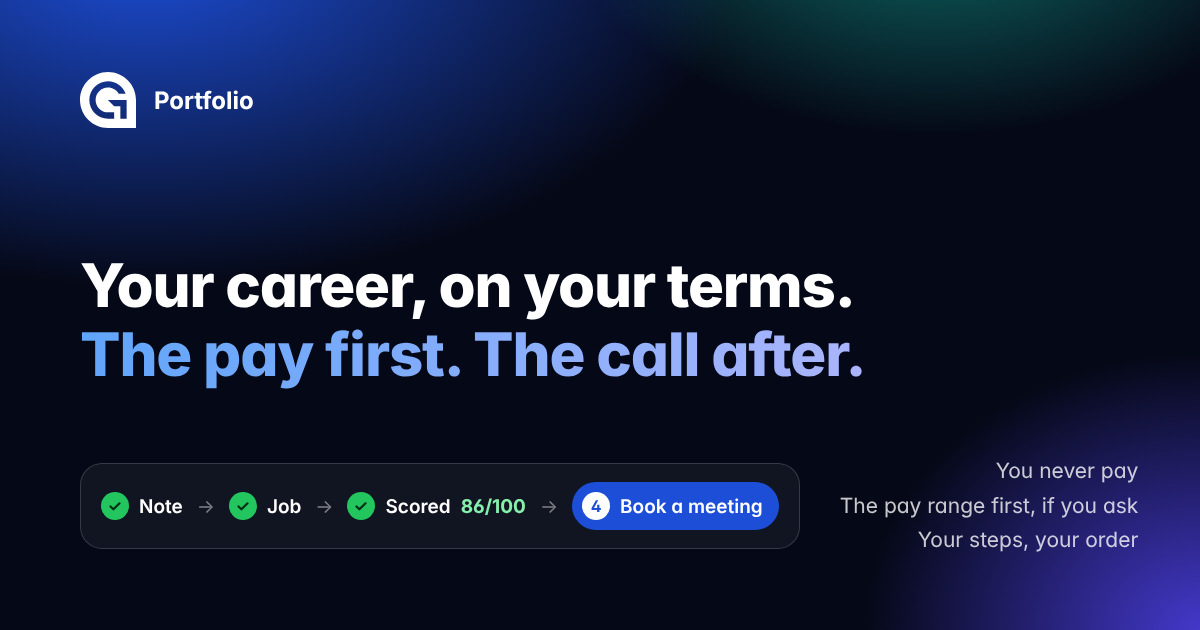
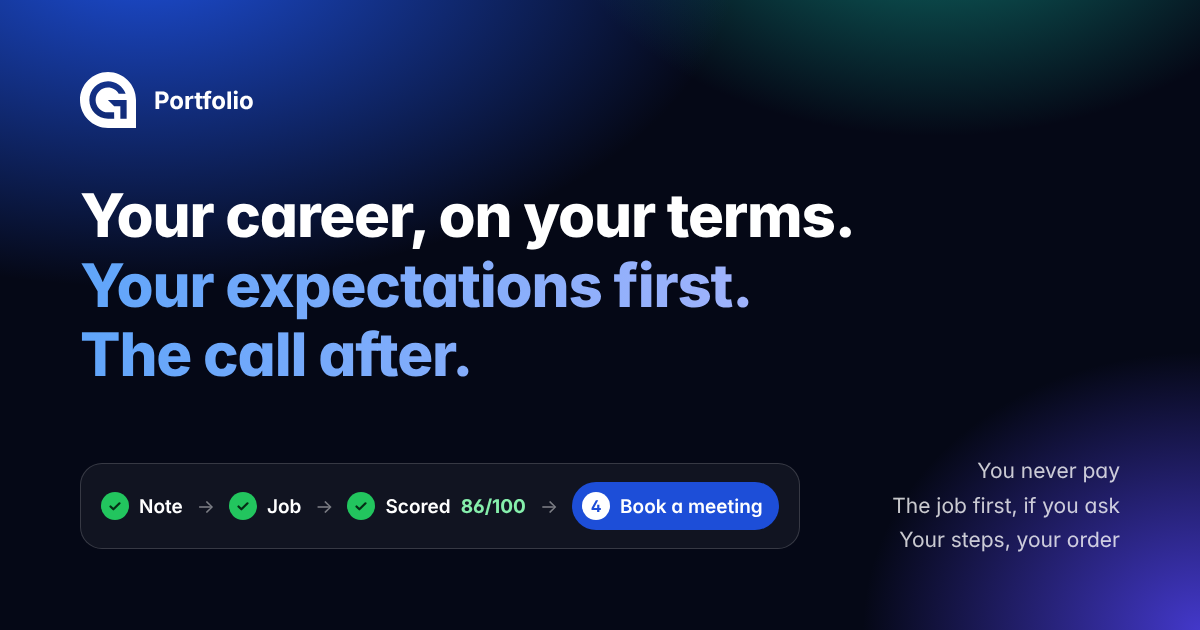
Lead with the candidate's expectations, not the pay
The landing read as money first: "The pay first. The call after." /
« La rémunération d'abord. L'appel ensuite. », and the promise « La
rémunération d'abord, si vous le demandez ».

- Headline: "Your career, on your terms. Your expectations first. The call
  after." / « Votre carrière, à vos conditions. Vos attentes d'abord.
  L'appel ensuite. » (also the link previews' og:title). Your
  expectations are the criteria the job is scored against, which the
  Backed-by comment now names (the job match step, scorePerfectJob).
- The promise: "The job first, if you ask" / « L'offre d'abord, si vous
  le demandez », with a briefcase instead of the banknotes; its text still
  says every job states its pay range and how a wide one is scored. The
  French title keeps « si vous le demandez » together (no-break spaces),
  so it breaks after the comma.
- The page's description: "ask for the job first, score it against your
  expectations" (no longer "the job and its pay first").
- The share images (og-image.png, og-image-fr.png) rendered again with the
  new headline and promise; the French side lines now fit one line each,
  so their narrower column is gone. Their alt text says the same.
- Tests (landing, language, shareImage), CLAUDE.md and the glossary of
  docs/I18N.md follow.

Checked: lint, typecheck, 855 unit tests, the landing, language and robots
e2e files (50 passed), and the pages and images looked at in both
[…]

Changed region(s): [[0.0617, 0.3016, 0.74, 0.6333], [0.6783, 0.7238, 0.9558, 0.8143], [0.74, 0.8444, 0.9558, 0.8746]]

diff --git a/client/src/routes/(site)/page.messages.ts b/client/src/routes/(site)/page.messages.ts
@@ -24,8 +24,8 @@ export const m = defineMessages({
 		 * meeting alone (DEFAULT_WORKFLOW_STEPS)
 		 */
 		description: {
-			en: 'Free for talent, always. Send recruiters your link: your page can ask for the job and its pay first, score it against what you want, and only then open your calendar.',
-			fr: "Gratuit pour les talents, toujours. Envoyez votre lien aux recruteurs : votre page peut demander d'abord l'offre et sa rémunération, la noter selon ce que vous voulez, et seulement ensuite ouvrir votre agenda."
+			en: 'Free for talent, always. Send recruiters your link: your page can ask for the job first, score it against your expectations, and only then open your calendar.',
+			fr: "Gratuit pour les talents, toujours. Envoyez votre lien aux recruteurs : votre page peut demander d'abord l'offre, la noter selon vos attentes, et seulement ensuite ouvrir votre agenda."
 		},
 		/**
 		 * The steps of a hiring journey the share image draws (render.mjs), the third with the score
@@ -38,8 +38,8 @@ export const m = defineMessages({
 		},
 		/** What the share image shows (client/scripts/og-image/render.mjs, its `landing` picture) */
 		imageAlt: {
-			en: 'Your career, on your terms. The pay first. The call after. The steps of a hiring journey: note, job, scored 86 out of 100, book a meeting. You never pay. The pay range first, if you ask. Your steps, your order.',
-			fr: "Votre carrière, à vos conditions. La rémunération d'abord. L'appel ensuite. Les étapes d'un parcours de recrutement : note, offre, notée 86 sur 100, rendez-vous. Vous ne payez jamais. La rémunération d'abord, si vous le demandez. Vos étapes, dans votre ordre."
+			en: 'Your career, on your terms. Your expectations first. The call after. The steps of a hiring journey: note, job, scored 86 out of 100, book a meeting. You never pay. The job first, if you ask. Your steps, your order.',
+			fr: "Votre carrière, à vos conditions. Vos attentes d'abord. L'appel ensuite. Les étapes d'un parcours de recrutement : note, offre, notée 86 sur 100, rendez-vous. Vous ne payez jamais. L'offre d'abord, si vous le demandez. Vos étapes, dans votre ordre."
 		}
 	},
 	hero: {
@@ -55,15 +55,17 @@ export const m = defineMessages({
 		/**
 		 * The coloured line, each sentence a `phrase` kept whole on one line, as the share image
 		 * keeps it (+page.svelte sizes the headline for the longest to fit its column, so a line
-		 * never holds « d'abord. » alone). Backed by: the gate journey
-		 * (journeyTemplate('gate'): a job step, then the job match, then the meeting), every job
-		 * description stating its pay range (validateJobPosting, `pay.min` and `pay.max`, of
-		 * common/models/jobPosting.ts) and the meeting locked until the steps before it succeed
-		 * (openStepOfType of server/services/workflows.ts). The lead says it takes asking for the job
+		 * never holds « d'abord. » alone). "Your expectations": what the owner asks for in a job,
+		 * their perfect job's criteria, not the pay alone. Backed by: the gate journey
+		 * (journeyTemplate('gate'): a job step, then the job match, then the meeting), the job match
+		 * step scoring the job against the owner's criteria (server/services/workflowSteps/jobMatch.ts,
+		 * scorePerfectJob of common/models/perfectJob.ts) and the meeting locked until the steps
+		 * before it succeed (openStepOfType of server/services/workflows.ts). The lead says it takes
+		 * asking for the job
 		 */
 		headlineAccent: {
-			en: '<phrase>The pay first.</phrase> <phrase>The call after.</phrase>',
-			fr: "<phrase>La rémunération d'abord.</phrase> <phrase>L'appel ensuite.</phrase>"
+			en: '<phrase>Your expectations first.</phrase> <phrase>The call after.</phrase>',
+			fr: "<phrase>Vos attentes d'abord.</phrase> <phrase>L'appel ensuite.</phrase>"
 		},
 		/**
 		 * Backed by: the admin's Get started tab, whose "Ask for the job first" saves the gate journey
@@ -213,14 +215,15 @@ export const m = defineMessages({
 		 * opened before the cap may state a wider range (requireOpenablePay of
 		 * server/services/jobPostings.ts refuses only a first opening); the job step's line in the
 		 * meeting invitation (`describe` of server/services/workflowSteps/job.ts, opportunityPath).
-		 * "If you ask": the default journey is the meeting alone (DEFAULT_WORKFLOW_STEPS). "The pay
-		 * range", in English: the share image draws this title under "You never pay", where "the pay
-		 * first" could read as "you pay first"
+		 * "If you ask": the default journey is the meeting alone (DEFAULT_WORKFLOW_STEPS). "The job",
+		 * not "the pay": the job comes first, its pay range with it, and the share image draws this
+		 * title under "You never pay", where "the pay first" could read as "you pay first"
 		 */
 		pay: {
 			title: {
-				en: 'The pay range first, if you ask',
-				fr: "La rémunération d'abord, si vous le demandez"
+				en: 'The job first, if you ask',
+				// No-break spaces: the balanced title breaks after the comma, never after « si »
+				fr: "L'offre d'abord, si\u00a0vous\u00a0le\u00a0demandez"
 			},
 			text: {
 				en: (ratio: number) =>

diff --git a/client/tests/landing.test.ts b/client/tests/landing.test.ts
@@ -130,7 +130,7 @@ test.describe('landing page, signed out', () => {
 		await expect(
 			page.getByRole('heading', {
 				level: 2,
-				name: 'Your career, on your terms. The pay first. The call after.'
+				name: 'Your career, on your terms. Your expectations first. The call after.'
 			})
 		).toBeVisible();
 		// The sections, in the order the page tells them
@@ -157,10 +157,10 @@ test.describe('landing page, signed out', () => {
 		// right above it
 		await expect(page.locator('meta[property="og:title"]')).toHaveAttribute(
 			'content',
-			'Your career, on your terms. The pay first. The call after.'
+			'Your career, on your terms. Your expectations first. The call after.'
 		);
 		await expect(page.getByRole('banner')).toContainText('The career page you keep');
-		await expect(page.getByRole('banner')).not.toContainText('The pay first');
+		await expect(page.getByRole('banner')).not.toContainText('Your expectations first');
 		await expect(page.getByRole('link', { name: 'See an example' })).toHaveAttribute(
 			'href',
 			'/louis.gentil/experiences'
@@ -180,11 +180,11 @@ test.describe('landing page, signed out', () => {
 		await expect(page).toHaveTitle('Your career, on your terms | Portfolio');
 		await expect(page.locator('meta[property="og:title"]')).toHaveAttribute(
 			'content',
-			'Your career, on your terms. The pay first. The call after.'
+			'Your career, on your terms. Your expectations first. The call after.'
 		);
 		await expect(page.locator('meta[property="og:image:alt"]')).toHaveAttribute(
 			'content',
-			'Your career, on your terms. The pay first. The call after. The steps of a hiring journey: note, job, scored 86 out of 100, book a meeting. You never pay. The pay range first, if you ask. Your steps, your order.'
+			'Your career, on your terms. Your expectations first. The call after. The steps of a hiring journey: note, job, scored 86 out of 100, book a meeting. You never pay. The job first, if you ask. Your steps, your order.'
 		);
 		await expect(page.locator('meta[name="description"]')).toHaveAttribute(
 			'content',
@@ -206,7 +206,7 @@ test.describe('landing page, signed out', () => {
 		// is the meeting alone): the page says the journey "can", and how
 		await expect(page.locator('meta[name="description"]')).toHaveAttribute(
 			'content',
-			/your page can ask for the job and its pay first, score it against what you want, and only then open your calendar\.$/
+			/your page can ask for the job first, score it against your expectations, and only then open your calendar\.$/
 		);
 		await expect(page.getByText('Ask for the job first, in one click:')).toBeVisible();
 		await expect(page.getByText('Your portfolio starts with the meeting alone.')).toBeVisible();
@@ -221,10 +221,10 @@ test.describe('landing page, signed out', () => {
 			page.getByRole('listitem').filter({ has: page.getByRole('heading', { name: title }) });
 		// Never an unconditional "recruiters show the pay first", and the range cap as scored (a
 		// posting opened before the cap may state a wider range)
-		await expect(promise('The pay range first, if you ask')).toContainText(
+		await expect(promise('The job first, if you ask')).toContainText(
 			'your page asks recruiters for the job before the meeting'
 		);
-		await expect(promise('The pay range first, if you ask')).toContainText(
+		await expect(promise('The job first, if you ask')).toContainText(
 			'it is scored as if its top were at most 1.5 times its bottom'
 		);
 		// The minimum is shown to recruiters: the promise says so

diff --git a/client/tests/language.test.ts b/client/tests/language.test.ts
@@ -27,7 +27,7 @@ test.describe('a visitor whose browser prefers French', () => {
 		await expect(
 			page.getByRole('heading', {
 				level: 2,
-				name: "Votre carrière, à vos conditions. La rémunération d'abord. L'appel ensuite."
+				name: "Votre carrière, à vos conditions. Vos attentes d'abord. L'appel ensuite."
 			})
 		).toBeVisible();
 		await expect(page.getByRole('heading', { level: 2, name: 'Envoyez votre lien' })).toBeVisible();
@@ -37,7 +37,7 @@ test.describe('a visitor whose browser prefers French', () => {
 		// The range cap in French numbers, the law cited in the answer about paying
 		await expect(
 			page.getByRole('listitem').filter({
-				has: page.getByRole('heading', { name: "La rémunération d'abord, si vous le demandez" })
+				has: page.getByRole('heading', { name: "L'offre d'abord, si vous le demandez" })
 			})
 		).toContainText('elle est notée comme si son haut valait au plus 1,5 fois son bas');
 		await expect(page.locator('details', { hasText: 'Devrai-je payer un jour' })).toContainText(
@@ -54,7 +54,7 @@ test.describe('a visitor whose browser prefers French', () => {
 		).toContainText('Jamais à vos frais : les candidats ne paient pas.');
 		await expect(page.locator('meta[property="og:title"]')).toHaveAttribute(
 			'content',
-			"Votre carrière, à vos conditions. La rémunération d'abord. L'appel ensuite."
+			"Votre carrière, à vos conditions. Vos attentes d'abord. L'appel ensuite."
 		);
 		await expect(page.getByRole('banner')).toContainText('La page de carrière que vous gardez');
 
@@ -88,11 +88,11 @@ test.describe('a visitor whose browser prefers French', () => {
 		await expect(page).toHaveTitle('Votre carrière, à vos conditions | Portfolio');
 		await expect(page.locator('meta[property="og:title"]')).toHaveAttribute(
 			'content',
-			"Votre carrière, à vos conditions. La rémunération d'abord. L'appel ensuite."
+			"Votre carrière, à vos conditions. Vos attentes d'abord. L'appel ensuite."
 		);
 		await expect(page.locator('meta[property="og:image:alt"]')).toHaveAttribute(
 			'content',
-			/^Votre carrière, à vos conditions\. La rémunération d'abord\. L'appel ensuite\./
+			/^Votre carrière, à vos conditions\. Vos attentes d'abord\. L'appel ensuite\./
 		);
 		await expect(page.getByRole('heading', { level: 2, name: 'Envoyez votre lien' })).toBeVisible();
 		await expect(

diff --git a/client/src/routes/(site)/shareImage.test.ts b/client/src/routes/(site)/shareImage.test.ts
@@ -4,8 +4,15 @@ import { plainText } from '#lib/i18n/rich.ts';
 import { m } from './page.messages.ts';
 import { landingImageSide, landingImageSteps } from './shareImage.ts';
 
-/** A text as the alternative text says it: without its last full stop, whatever its case */
-const words = (text: string) => text.replace(/\.$/, '').toLowerCase();
+/**
+ * A text as the alternative text says it: without its last full stop, whatever its case, its
+ * no-break spaces (which only keep a title's words together on its line) read as spaces
+ */
+const words = (text: string) =>
+	text
+		.replace(/\u00a0/g, ' ')
+		.replace(/\.$/, '')
+		.toLowerCase();
 
 describe("the landing page's share image", () => {
 	test('its alternative text says what the picture says, in each language', () => {
@@ -35,14 +42,14 @@ describe("the landing page's share image", () => {
 	});
 
 	test('its lines are the promises of the page, in the language in use', () => {
-		// "The pay range first": under "You never pay", "the pay first" could read as "you pay first"
+		// "The job first": under "You never pay", "the pay first" could read as "you pay first"
 		expect(withLocale('en', landingImageSide)).toEqual([
 			'You never pay',
-			'The pay range first, if you ask',
+			'The job first, if you ask',
 			'Your steps, your order'
 		]);
 		expect(withLocale('fr', landingImageSide)[1]).toBe(
-			"La rémunération d'abord, si vous le demandez"
+			"L'offre d'abord, si\u00a0vous\u00a0le\u00a0demandez"
 		);
 	});
 });

diff --git a/client/src/routes/(site)/+page.svelte b/client/src/routes/(site)/+page.svelte
@@ -5,6 +5,7 @@
 		ArrowRight,
 		Banknotes,
 		Bars3BottomLeft,
+		Briefcase,
 		BuildingOffice2,
 		Check,
 		ChevronDown,
@@ -91,7 +92,7 @@
 	const promises = [
 		{ icon: Gift, ...m.promises.free },
 		{
-			icon: Banknotes,
+			icon: Briefcase,
 			title: m.promises.pay.title,
 			text: m.promises.pay.text(JOB_LIMITS.pay.maxRangeRatio)
 		},

diff --git a/CLAUDE.md b/CLAUDE.md
@@ -80,7 +80,7 @@ The whole site is in English and French: pages, API answers, the labels and vali
 **Every text a person reads is a message**: `{ en, fr }` (two strings, two functions for a text with values, or two arrays) declared with `defineMessages()` in a `*.messages.ts` file next to the code that shows it (`Foo.svelte` → `Foo.messages.ts`, `+page.svelte` → `page.messages.ts`, `services/foo.ts` → `foo.messages.ts`; shared words in `client/src/lib/i18n/common.messages.ts`). Rules to keep: **read a message when it is shown, never at module load** (a module-level constant holding a text is English for everyone: use the messages object, a function or a getter); whole sentences, never glued fragments; plurals through `plural()`; dates and numbers with `intlLocale()`; a sentence with a link in it stays one message with the passage tagged (`'the <terms>terms of use</terms>'`), rendered by `client/src/lib/i18n/Rich.svelte`; English is the reference and the tests read it. Not messages: what people wrote, names, log lines (the API logs in English whatever the visitor's language), texts sent to a model or filed on GitHub, and the API bodies the client compares (`'Domain not found'`...), which stay English constants (`server/protocol.ts` lists them with the client code that matches each; the client then says it in its own words). In the API an error takes a function reading its message (`new BadRequestError(() => m.invalidDate)`, `server/errors.ts`): the answer is in the visitor's language and the error keeps the English for the log. The legal texts stay one component per document and language. **Portfolio is the site's name**, a brand: capitalised, without an article, never translated ("On Portfolio, a skill is not a keyword", « Sur Portfolio… »); the common noun is kept for one person's page ("your portfolio", "a candidate's portfolio"), never "a portfolio" or "portfolios" for the product (`docs/I18N.md`, "Portfolio is a name"). A portfolio's title is its owner's, not translated either; a portfolio without one is headed by its address name (`[domain]/+layout.svelte`). `client/src/lib/i18n/i18n.test.ts` and `server/tests/i18n.test.ts` fail when a `*.messages.ts` file lacks a language or its tags differ; TypeScript refuses a message without its French.
 
 ### Landing page and onboarding
-`routes/(site)/+page.svelte` (rendered on the server, in English or French: title, description, canonical and `hreflang` links (English is `/`, French `/?lang=fr`), Open Graph and `twitter:card` tags, image `client/static/og-image.png` or `og-image-fr.png`, 1200×630; listed by search engines: no robots meta, no `x-robots-tag`), its texts in `routes/(site)/page.messages.ts`: hero ("Your career, on your terms. The pay first. The call after.", also the link previews' `og:title`; each sentence's end a `<phrase>` kept whole on its line, the headline sized for the longest to fit its column, so it breaks between sentences and never leaves a word alone on a line, and the header's subtitle above it is "The career page you keep" (`layout.messages.ts`), never the headline again; "Create your portfolio" scrolls to the onboarding card and focuses its address field; "See an example" → `/louis.gentil/experiences`; "You never pay", search engines asked not to list the portfolio, "Delete your account at any time"), "Send your link" (the journey's four steps, note, job, score, meeting, with demo-journey: "Your portfolio starts with the meeting alone", the gate one click away), "Our promises to you" (seven: you never pay; the pay range first, if you ask; the pay you ask for stays private; your steps, your order; recruiters come through your link; your data stays yours; the terms of your hire are yours), "Calls you can stop taking" (three cases the perfect job's criteria stop: too far, underpaid, not remote enough), "Make it yours" (themes, title and tagline, list or timeline, skills backed by projects), how it works (the card's four steps, the fourth "Set your terms"), FAQ (among others "Do I ever pay?", citing article L5321-3, "Does having a portfolio mean I'm looking?" and "How does Portfolio make money?"), a last call ("Set your terms once"). The page is written for talent and sells Portfolio as a career tool they keep, whether they are looking or not (having a portfolio says nothing about looking for a job): their link can make recruiters show the job and its pay before the call (the gate journey, one click from Get started; the default journey is the meeting alone), then they make the portfolio their own. **Every claim is true of the code at HEAD, and each message that promises something carries a `/** Backed by: … */` comment naming that code** (a route, a step type, a section of the Terms or the Privacy policy): whoever changes or removes it changes the claim with it, and nothing promises a feature not yet shipped. The rules the copy keeps: "The pay first" holds only where the journey asks for the job, which the default journey (the meeting alone) does not, so the page says "if you ask" and how (the gate, one click from Get started); recruiters never see the figures of a candidate's criteria, the pay asked included (the job match shows a score, the minimum and, with `showDetails`, an outcome per criterion, for the pay a band, never an amount); the pay range's cap is said as scored ("scored as if its top were at most 1.5 times its bottom"), since a posting opened before the cap may state a wider one; the answer to "Does having a portfolio mean I'm looking?" says what the link and the page read ("Propose a role"), never that nothing on a portfolio speaks of a search (the owner's own note may), and the job match's texts on the page for recruiters name the owner's criteria, never "what they are looking for" (`jobMatch` of `hire/steps/steps.messages.ts`, the gate template's note); a portfolio is public, search engines are only asked not to list it, so it is never called private; the money answer says candidates never pay and recruiters, free today, are told and agree before any paid feature, as the Terms say. It does not sell the address (a portfolio is a path of the site, not a domain of its own). Two sections have a demo, `client/src/lib/components/landing/DemoVideo.svelte`: a silent recording of the app on a phone (`client/static/landing/demo-style.*`: the experiences page in five themes, as a list and a timeline; `demo-journey.*`: a candidate's page for recruiters, "Propose a role to Jane Doe", where a recruiter's job fails the commute deal-breaker; `.webm`, `.mp4` and the first frame as `.jpg`), downloaded and played only while it is on screen, with a pause button, and not started by itself with "reduce motion". They are recorded from the real app, in English, with `client/scripts/landing-demos/` (`seed.mjs`: a fictional candidate and recruiter in the local database, the recruiter accepting the terms in force through the API, so run it again after a `LEGAL_VERSION` bump; `record.mjs`: the steps filmed, how to run it at its top; `record.mjs style` records demo-style alone, which needs neither the recruiter nor the travel times; `record.mjs journey` needs the API with `COMMUTE_TIMES=true`: the Géoplateforme, or offline, with `client/scripts/landing-demos/offline-geoplateforme.mjs` preloaded in the API (`bun --preload`), which answers it for the seed's two addresses and refuses every other outside host (the committed film was recorded so: its travel times are illustrative, and it shows only the commute's outcome), and answers the browser's request for Jane's meeting types with one, her calendar not being connectable without Google, so the page is the one an open calendar shows, with "Before you start"): record them again when what they show changes. The share images carry the hero's headline, the steps of a journey (`meta.imageSteps`, `landingImageSteps`: the job match's chip says the job was scored, "Scored 86/100", « Notée 86/100 », as the step is named) and three of the promises' titles (`landingImageSide`, both of `routes/(site)/shareImage.ts`, which the image's alternative text `meta.imageAlt` must name: `shareImage.test.ts`), read from the page's messages by `client/scripts/og-image/render.mjs` (`render.mjs landing` renders them alone; it also draws a portfolio's preview pictures, see "Link previews"): run it again when one of those texts changes. The onboarding card is `client/src/lib/components/landing/CandidateOnboarding.svelte`, a stepper of four steps ("Four steps, a few minutes. You never pay."); where an owner stands in steps 3 and 4 is `GET /me/readiness` (`loadReadiness` of `client/src/services/candidateSetup.ts`, read once the portfolio is known: a placeholder meanwhile, step 3 when it cannot be read, and a 401 there never signs the landing page out):
+`routes/(site)/+page.svelte` (rendered on the server, in English or French: title, description, canonical and `hreflang` links (English is `/`, French `/?lang=fr`), Open Graph and `twitter:card` tags, image `client/static/og-image.png` or `og-image-fr.png`, 1200×630; listed by search engines: no robots meta, no `x-robots-tag`), its texts in `routes/(site)/page.messages.ts`: hero ("Your career, on your terms. Your expectations first. The call after.", also the link previews' `og:title`; each sentence's end a `<phrase>` kept whole on its line, the headline sized for the longest to fit its column, so it breaks between sentences and never leaves a word alone on a line, and the header's subtitle above it is "The career page you keep" (`layout.messages.ts`), never the headline again; "Create your portfolio" scrolls to the onboarding card and focuses its address field; "See an example" → `/louis.gentil/experiences`; "You never pay", search engines asked not to list the portfolio, "Delete your account at any time"), "Send your link" (the journey's four steps, note, job, score, meeting, with demo-journey: "Your portfolio starts with the meeting alone", the gate one click away), "Our promises to you" (seven: you never pay; the job first, if you ask; the pay you ask for stays private; your steps, your order; recruiters come through your link; your data stays yours; the terms of your hire are yours), "Calls you can stop taking" (three cases the perfect job's criteria stop: too far, underpaid, not remote enough), "Make it yours" (themes, title and tagline, list or timeline, skills backed by projects), how it works (the card's four steps, the fourth "Set your terms"), FAQ (among others "Do I ever pay?", citing article L5321-3, "Does having a portfolio mean I'm looking?" and "How does Portfolio make money?"), a last call ("Set your terms once"). The page is written for talent and sells Portfolio as a career tool they keep, whether they are looking or not (having a portfolio says nothing about looking for a job): their link can make recruiters show the job, scored against their expectations, before the call (the gate journey, one click from Get started; the default journey is the meeting alone), then they make the portfolio their own. **Every claim is true of the code at HEAD, and each message that promises something carries a `/** Backed by: … */` comment naming that code** (a route, a step type, a section of the Terms or the Privacy policy): whoever changes or removes it changes the claim with it, and nothing promises a feature not yet shipped. The rules the copy keeps: it is not about money first ("Your expectations first", the candidate's criteria, never "the pay first"); "first" holds only where the journey asks for the job and scores it, which the default journey (the meeting alone) does not, so the page says "if you ask" and how (the gate, one click from Get started); recruiters never see the figures of a candidate's criteria, the pay asked included (the job match shows a score, the minimum and, with `showDetails`, an outcome per criterion, for the pay a band, never an amount); the pay range's cap is said as scored ("scored as if its top were at most 1.5 times its bottom"), since a posting opened before the cap may state a wider one; the answer to "Does having a portfolio mean I'm looking?" says what the link and the page read ("Propose a role"), never that nothing on a portfolio speaks of a search (the owner's own note may), and the job match's texts on the page for recruiters name the owner's criteria, never "what they are looking for" (`jobMatch` of `hire/steps/steps.messages.ts`, the gate template's note); a portfolio is public, search engines are only asked not to list it, so it is never called private; the money answer says candidates never pay and recruiters, free today, are told and agree before any paid feature, as the Terms say. It does not sell the address (a portfolio is a path of the site, not a domain of its own). Two sections have a demo, `client/src/lib/components/landing/DemoVideo.svelte`: a silent recording of the app on a phone (`client/static/landing/demo-style.*`: the experiences page in five themes, as a list and a timeline; `demo-journey.*`: a candidate's page for recruiters, "Propose a role to Jane Doe", where a recruiter's job fails the commute deal-breaker; `.webm`, `.mp4` and the first frame as `.jpg`), downloaded and played only while it is on screen, with a pause button, and not started by itself with "reduce motion". They are recorded from the real app, in English, with `client/scripts/landing-demos/` (`seed.mjs`: a fictional candidate and recruiter in the local database, the recruiter accepting the terms in force through the API, so run it again after a `LEGAL_VERSION` bump; `record.mjs`: the steps filmed, how to run it at its top; `record.mjs style` records demo-style alone, which needs neither the recruiter nor the travel times; `record.mjs journey` needs the API with `COMMUTE_TIMES=true`: the Géoplateforme, or offline, with `client/scripts/landing-demos/offline-geoplateforme.mjs` preloaded in the API (`bun --preload`), which answers it for the seed's two addresses and refuses every other outside host (the committed film was recorded so: its travel times are illustrative, and it shows only the commute's outcome), and answers the browser's request for Jane's meeting types with one, her calendar not being connectable without Google, so the page is the one an open calendar shows, with "Before you start"): record them again when what they show changes. The share images carry the hero's headline, the steps of a journey (`meta.imageSteps`, `landingImageSteps`: the job match's chip says the job was scored, "Scored 86/100", « Notée 86/100 », as the step is named) and three of the promises' titles (`landingImageSide`, both of `routes/(site)/shareImage.ts`, which the image's alternative text `meta.imageAlt` must name: `shareImage.test.ts`), read from the page's messages by `client/scripts/og-image/render.mjs` (`render.mjs landing` renders them alone; it also draws a portfolio's preview pictures, see "Link previews"): run it again when one of those texts changes. The onboarding card is `client/src/lib/components/landing/CandidateOnboarding.svelte`, a stepper of four steps ("Four steps, a few minutes. You never pay."); where an owner stands in steps 3 and 4 is `GET /me/readiness` (`loadReadiness` of `client/src/services/candidateSetup.ts`, read once the portfolio is known: a placeholder meanwhile, step 3 when it cannot be read, and a 401 there never signs the landing page out):
 - The address field shows from the start, signed out too: a live preview `{host}/{name}` (`portfolioUrlPreview` of `client/src/services/account.ts`) and an availability pill from `checkDomainAvailability` (350 ms debounce, `AbortController`, stale answers dropped; invalid and reserved names answered locally, without a request), backed by the public `GET /domain/:name/availability` (advisory: the claim decides). What was typed before signing in is kept (`suggestDomainName` fills only an empty field).
 - **1. Sign in with Google**: the `AgeTermsConsent` checkbox comes first, and Google's script (accounts.google.com) is loaded and its button rendered **only while it is ticked** (the legal pages state this: keep it); the handler checks the box again and calls `login(credential, 'candidate', currentConsent())`. Until `$sessionCheckedStore`, no step is highlighted (no flash of the wrong step).
 - **2. Claim your address**: `claimPortfolio(name, consent?)` then `switchMode('candidate')`; the checkbox shows again when the account has not accepted the current terms or the API answers with cause `consent`.

diff --git a/docs/I18N.md b/docs/I18N.md
@@ -221,7 +221,7 @@ name", "an example"). The legal texts, which define their own terms, are not cov
 | "Get started" (the admin's tab), checklist, "2 of 4 done" | « Pour commencer », liste à régler, « 2 sur 4 réglés » |
 | "Set your terms" (step 4 of the landing card; the landing's "How it works" says its steps in the imperative), "Set my terms", "Set your terms once" (the landing's last call) | « Fixer vos conditions » (« Fixez vos conditions » in "How it works"), « Fixer mes conditions », « Fixez vos conditions en une fois » (« une fois » alone reads as unfinished) |
 | "Your career, on your terms." (the landing's headline), on your terms | « Votre carrière, à vos conditions. », à vos conditions |
-| "The pay first. The call after.", "The pay range first, if you ask" (the promise, said only with the condition: the default journey does not ask for the job; "pay range", so that under "You never pay" it never reads as "you pay first") | « La rémunération d'abord. L'appel ensuite. », « La rémunération d'abord, si vous le demandez » |
+| "Your expectations first. The call after." (the headline's second line: what the candidate asks for in a job, their criteria, not the pay alone), "The job first, if you ask" (the promise, said only with the condition: the default journey does not ask for the job; "the job", never "the pay", which under "You never pay" could read as "you pay first") | « Vos attentes d'abord. L'appel ensuite. », « L'offre d'abord, si vous le demandez » (never « La rémunération d'abord »: the copy is not about money first) |
 | promise (the landing's "Our promises to you") | engagement (« Nos engagements envers vous ») |
 | a career tool (what a portfolio is: having one says nothing about looking for a job) | un outil de carrière |
 | "The career page you keep" (the landing's header; the Share tab: "a career page you keep") | « La page de carrière que vous gardez » (« une page de carrière que vous gardez ») |
